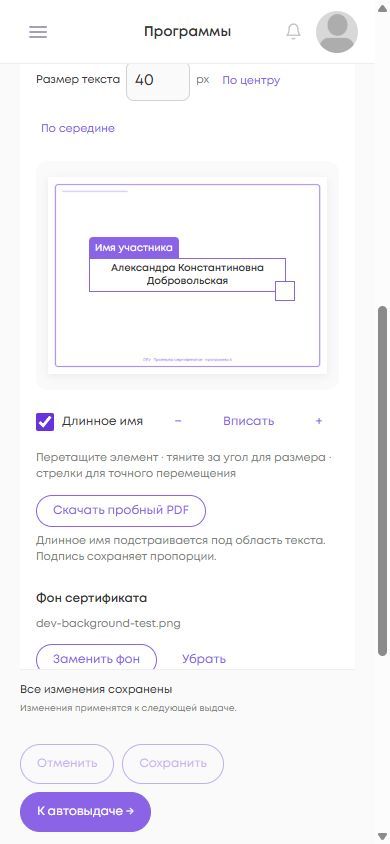
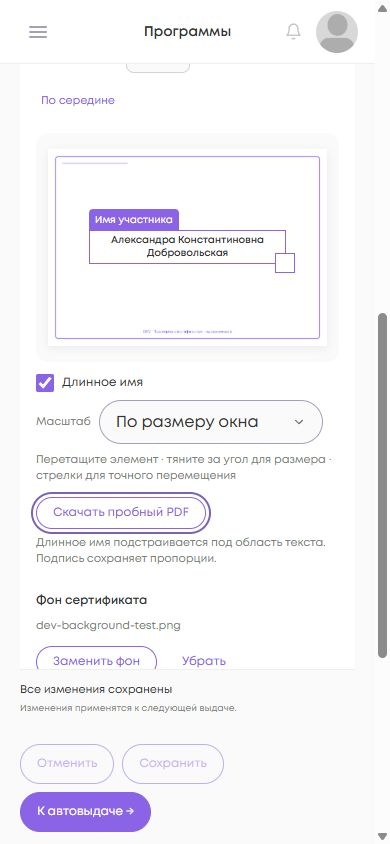
fix(certificates): use one labeled scale selector

diff --git a/projects/social_platform/src/app/ui/pages/program/management/certificates/certificate-canvas.component.html b/projects/social_platform/src/app/ui/pages/program/management/certificates/certificate-canvas.component.html
@@ -110,25 +110,20 @@
       (change)="longNameChange.emit($any($event.target).checked)"
     />Длинное имя</label
   >
-  <div class="canvas__zoom">
-    <button
-      type="button"
-      appButton="icon"
-      aria-label="Уменьшить масштаб"
-      (click)="setZoom(zoom() - 0.25)"
+  <label class="canvas__zoom">
+    <span>Масштаб</span>
+    <select
+      appField
+      [value]="zoom()"
+      [disabled]="disabled()"
+      (change)="setZoom(+$any($event.target).value)"
     >
-      −</button
-    ><button type="button" appButton="text" (click)="setZoom(1)">
-      {{ zoom() === 1 ? "Вписать" : zoom() * 100 + "%" }}</button
-    ><button
-      type="button"
-      appButton="icon"
-      aria-label="Увеличить масштаб"
-      (click)="setZoom(zoom() + 0.25)"
-    >
-      +
-    </button>
-  </div>
+      <option value="1">По размеру окна</option>
+      <option value="1.25">125%</option>
+      <option value="1.5">150%</option>
+      <option value="2">200%</option>
+    </select>
+  </label>
 </div>
 <p class="canvas__instruction">
   Перетащите элемент · тяните за угол для размера · стрелки для точного перемещения

diff --git a/projects/social_platform/src/app/ui/pages/program/management/certificates/certificate-canvas.component.scss b/projects/social_platform/src/app/ui/pages/program/management/certificates/certificate-canvas.component.scss
@@ -214,6 +214,19 @@
     align-items: center;
   }
 
+  &__zoom {
+    max-width: 100%;
+    font-size: 11px;
+    color: var(--grey-for-text);
+
+    select {
+      width: 180px;
+      min-height: 32px;
+      padding-block: 5px;
+      font-size: 12px;
+    }
+  }
+
   &__instruction {
     margin: 8px 0 0;
     font-size: 11px;
@@ -238,9 +251,14 @@
     font-size: 11px;
   }
 
-  .canvas__zoom .ui-button {
-    min-width: 40px;
-    min-height: 40px;
+  .canvas__zoom {
+    flex-wrap: wrap;
+
+    select {
+      width: 224px;
+      min-height: 44px;
+      font-size: 16px;
+    }
   }
 
   .canvas__resize {

diff --git a/docs/qa/certificates-editor-20261024.md b/docs/qa/certificates-editor-20261024.md
@@ -53,6 +53,16 @@ must fill A4. This is an exception to generic cramped-padding diagnostics.
 
 ## Evidence and limits
 
+### Zoom control adjustment
+
+The scale control is one labeled UI foundation select: По размеру окна, 125%,
+150%, 200%. Separate fit/minus/plus buttons are removed. Browser selection at all
+four values scales the paper correctly and restores its original width; ArrowDown
+and Home also change and reset the value. At 320/390 the select remains inside the
+page and has a 44px touch target. The 26 relevant tests and Angular build passed;
+targeted Prettier/Stylelint and diff checks passed. Desktop/mobile evidence below
+was refreshed. No API or certificate content change is involved.
+
 Screenshots: [desktop](certificates-editor-20261024/desktop.jpg),
 [mobile](certificates-editor-20261024/mobile.jpg),
 [launch confirmation](certificates-editor-20261024/confirmation.jpg).
